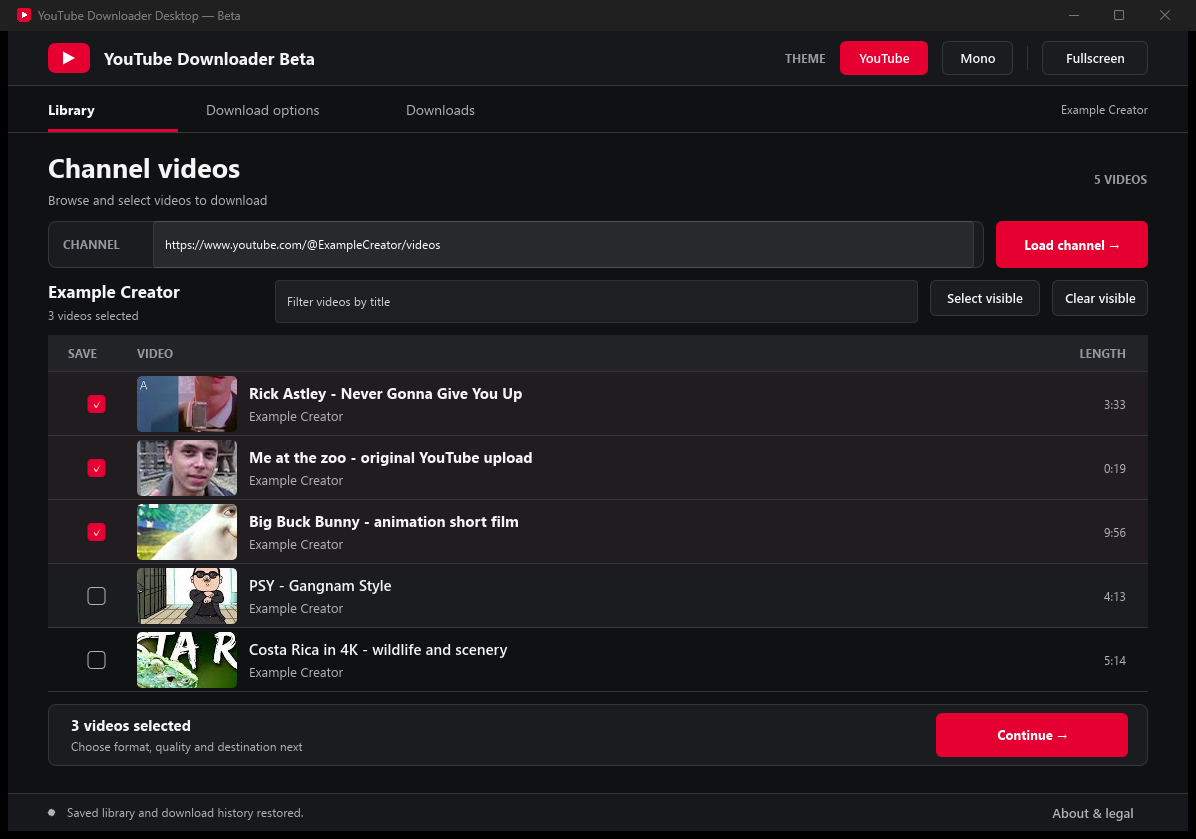
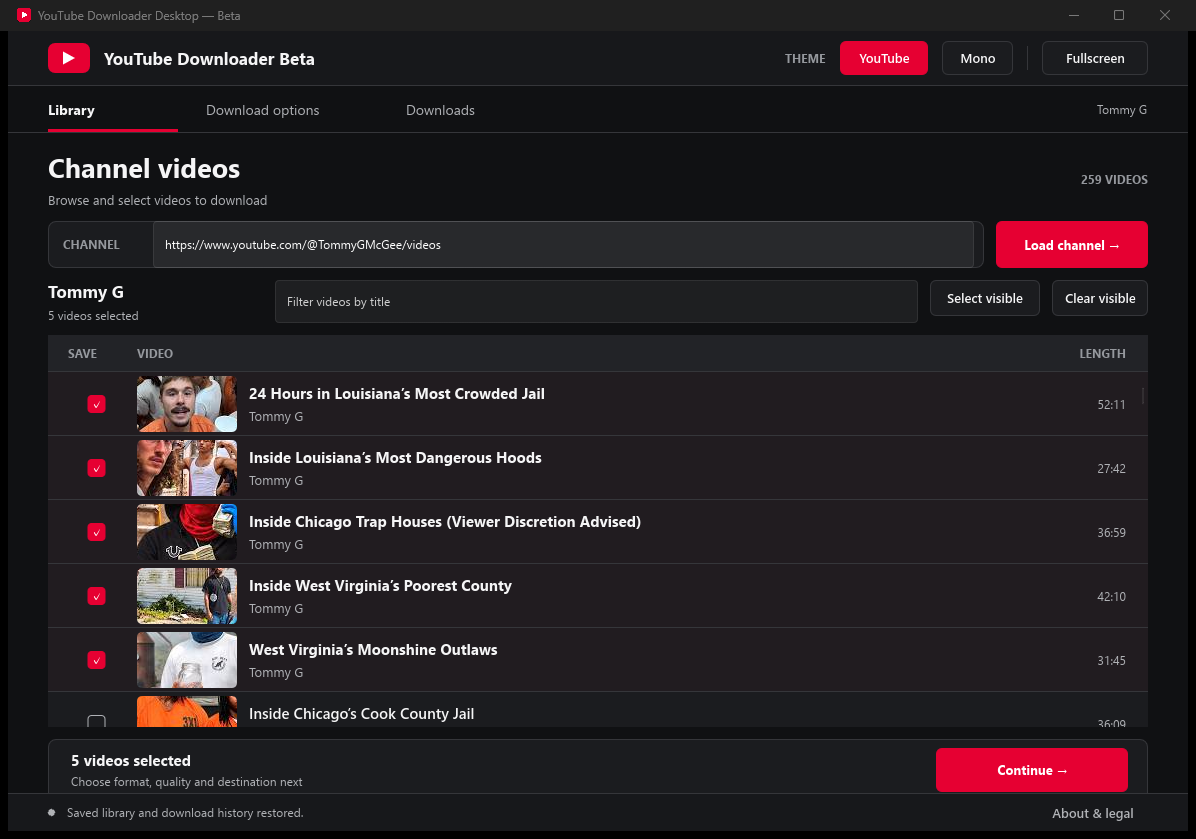
docs: showcase updated desktop beta screenshots

diff --git a/README.md b/README.md
@@ -4,7 +4,7 @@
 
 A Windows app for finding videos on a public YouTube channel, choosing what to save, and downloading permitted videos, audio, or available captions. It runs on your PC; you do not need a browser extension, Python, or an account with this project.
 
-![The desktop app showing a sample channel library](docs/screenshots/library.png)
+![YouTube Downloader Desktop Beta browsing 259 videos from a public channel](docs/screenshots/library.png)
 
 **[Download the Desktop Beta](https://github.com/Ticklect/youtube-downloader-desktop/releases/latest)** | [See download options](docs/screenshots/options.png) | [See the download queue](docs/screenshots/downloads.png)
 
@@ -27,6 +27,18 @@ The Beta is currently **Windows x64 only**. It is not code-signed and has no ins
 5. Start the downloads. Open **Downloads** to check progress, open finished files, cancel active jobs, or retry failures.
 
 You can also switch between the **YouTube Red** and **Mono** themes. The app remembers your channel, selected videos, settings, and download history between launches.
+
+## Screenshots
+
+| Download options | Downloads and history |
+| :---: | :---: |
+| ![Choose video quality, audio, captions, and destination](docs/screenshots/options.png) | ![View completed downloads, failed jobs, and retry controls](docs/screenshots/downloads.png) |
+
+**Mono theme** — the same Library with a neutral colour scheme:
+
+![YouTube Downloader Desktop Beta in Mono theme](docs/screenshots/mono-library.png)
+
+The main Library screenshot shows a real public channel with **259 videos loaded** during pagination testing. The other screenshots use isolated example data. All were captured from the updated desktop Beta.
 
 ## What it supports
 
@@ -71,7 +83,7 @@ The packaging script downloads and checksum-verifies the required tools. It crea
 powershell -NoProfile -ExecutionPolicy Bypass -File scripts/smoke-beta-acceptance.ps1 -Executable 'dist\YouTube Downloader Desktop Beta Local-Build\YouTube Downloader Desktop.exe' -CaptureMatrix
 ```
 
-Those tests use isolated sample data, not your real downloaded files. The screenshots in this README also show sample content. Your regular app settings and history are stored under `%LOCALAPPDATA%\YouTube Downloader Desktop\`.
+Those tests use isolated sample data, not your real downloaded files. Your regular app settings and history are stored under `%LOCALAPPDATA%\YouTube Downloader Desktop\`.
 
 ## Other versions and licences
 
